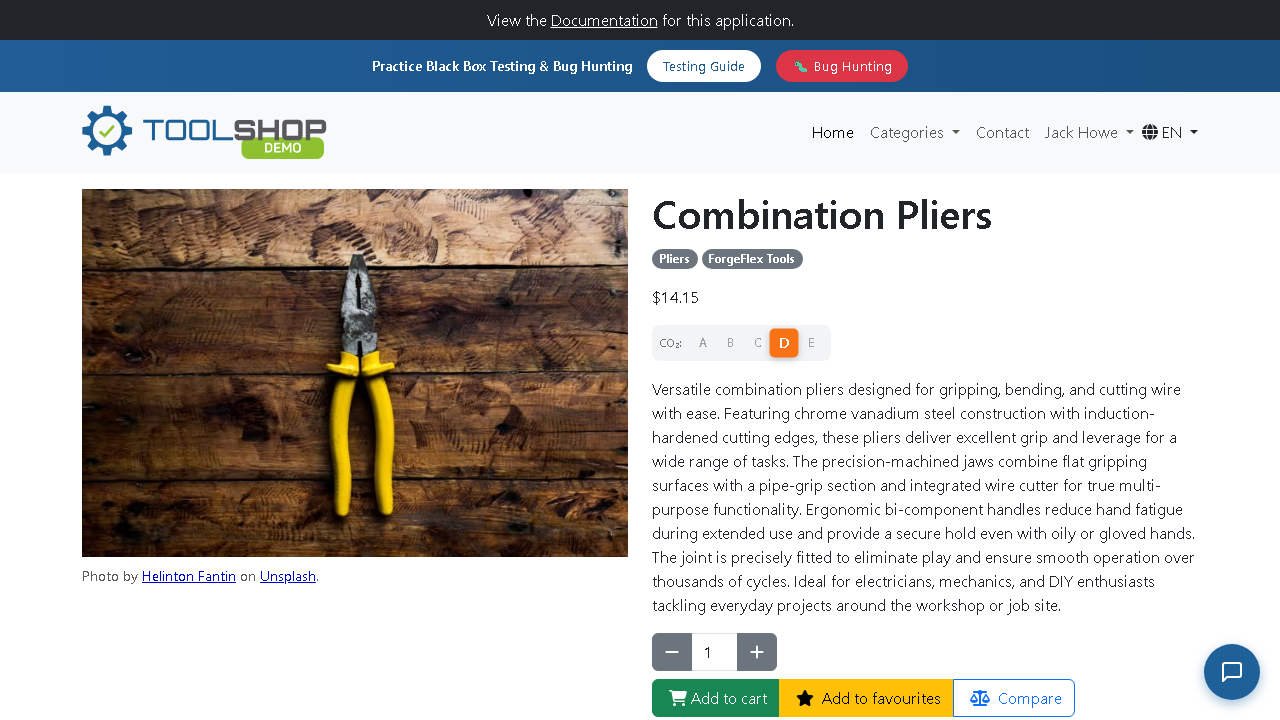
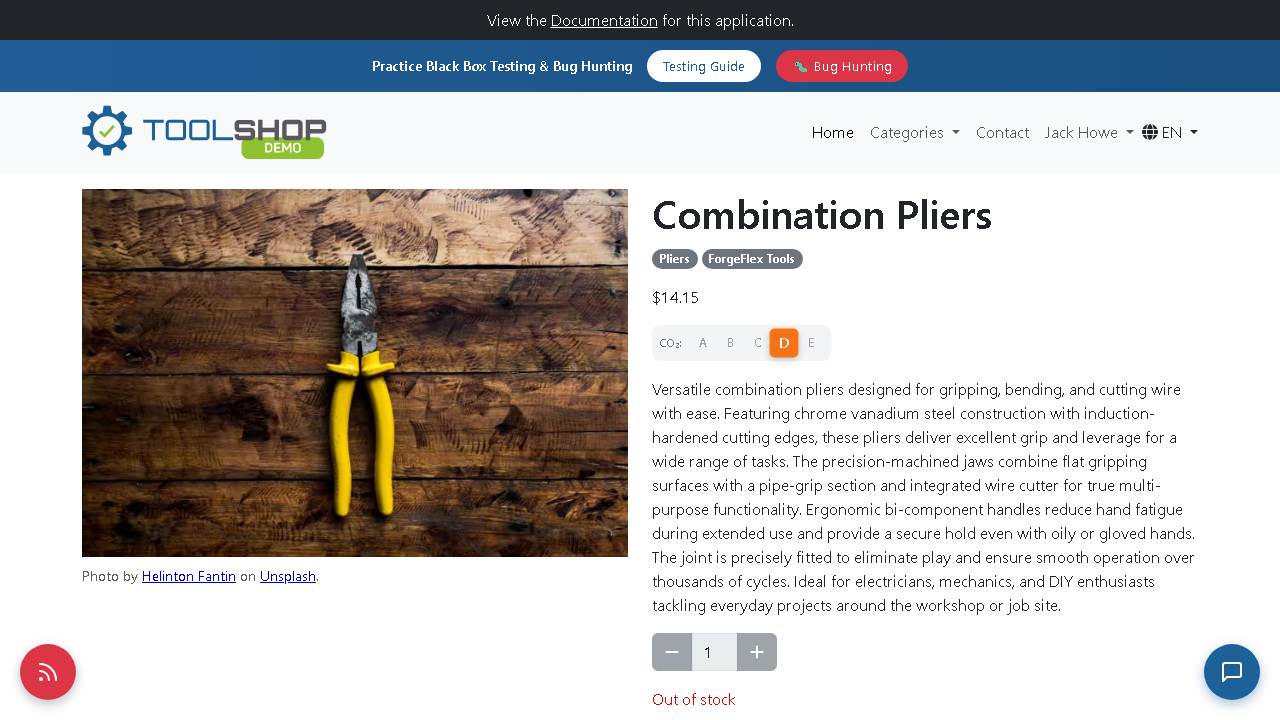
Fixes issue-2 for ci enviorment

Changed region(s): [[0.5, 0.8556, 0.7812, 1.0], [0.0, 0.8861, 0.0625, 0.9778]]

diff --git a/tests/setupFiles/auth-setup.spec.js b/tests/setupFiles/auth-setup.spec.js
@@ -3,49 +3,45 @@
 import {test as setup} from '@playwright/test'
 import { request } from 'https'
 
-//basic ui login that always get failed in ci due to cloudflare bot protection
-/*
-setup("Authenticate as a customer 2 - Jack Howe", async ({page})=>{
-    const email = process.env.testEmail
-    const password = process.env.testPassword
-    const customer02AuthFile = ".auth/customer02.json"
-
+if(!process.env.CI){
+    //basic ui login that always get failed in ci due to cloudflare bot protection
+    setup("Authenticate as a customer 2 - Jack Howe", async ({page})=>{
+        const customer02AuthFile = ".auth/customer02.json"
     
-    await page.goto("https://practicesoftwaretesting.com/auth/login")
-    await page.locator('[data-test="email"]').fill(email)
-    await page.locator('[data-test="password"]').fill(password)
-    await page.locator('[data-test="login-submit"]').click()
-    await page.waitForURL('account')
-    await page.context().storageState({path:customer02AuthFile})
-})
-*/
-
-//so i am using api to login
-setup("Authenticate as a customer 2 - Jack Howe", async ({request, page})=>{
-    const email = process.env.testEmail
-    const password = process.env.testPassword
-    const customer02AuthFile = ".auth/customer02.json"
-
-    const response = await request.post("https://api.practicesoftwaretesting.com/users/login",{
-        data:{
-            email:email,
-            password:password
-        },
+        await page.goto("https://practicesoftwaretesting.com/auth/login")
+        await page.locator('[data-test="email"]').fill(process.env.testEmail ?? '')
+        await page.locator('[data-test="password"]').fill(process.env.testPassword ?? '')
+        await page.locator('[data-test="login-submit"]').click()
+        await page.waitForURL('**/account')
+        await page.context().storageState({path:customer02AuthFile})
     })
-
-    if (!response.ok()) {
-        throw new Error(`Login failed with status ${response.status()}`)
-    }
-
-    const body = await response.json()
-    if (!body.access_token) {
-        throw new Error("Login response does not contain access_token")
-    }
-
-    await page.goto("https://practicesoftwaretesting.com/")
-    await page.evaluate((token) => {
-        localStorage.setItem("auth-token", token)
-    }, body.access_token)
-    //await page.waitForURL('**/account')
-    await page.context().storageState({path:customer02AuthFile})
-})
+}else{
+    //so i am using api to login
+    setup("Authenticate as a customer 2 - Jack Howe", async ({request, page})=>{
+        const email = process.env.testEmail
+        const password = process.env.testPassword
+        const customer02AuthFile = ".auth/customer02.json"
+    
+        const response = await request.post("https://api.practicesoftwaretesting.com/users/login",{
+            data:{
+                email:email,
+                password:password
+            },
+        })
+    
+        if (!response.ok()) {
+            throw new Error(`Login failed with status ${response.status()}`)
+        }
+    
+        const body = await response.json()
+        if (!body.access_token) {
+            throw new Error("Login response does not contain access_token")
+        }
+    
+        await page.goto("https://practicesoftwaretesting.com/")
+        await page.evaluate((token) => {
+            localStorage.setItem("auth-token", token)
+        }, body.access_token)
+        await page.context().storageState({path:customer02AuthFile})
+    })
+}

diff --git a/tests/basicPractice/practiceSoftwaretesting.spec.js b/tests/basicPractice/practiceSoftwaretesting.spec.js
@@ -1,22 +1,24 @@
 import { test, expect } from '@playwright/test';
 
-test.describe("Sign In Test",{tag:"@signin"},()=>{
-  test('Verify valid sign in of Jane Doe', async ({ page }) => {
-    await page.goto('https://practicesoftwaretesting.com/');
-    await page.locator('[data-test="nav-sign-in"]').click();
-    await page.locator('[data-test="email"]').fill('customer@practicesoftwaretesting.com');
-    await page.locator('[data-test="password"]').fill('welcome01');
-    await page.locator('[data-test="login-submit"]').click();
-    await expect(page.locator('[data-test="nav-menu"]')).toContainText('Jane Doe');
-    await expect(page.locator('[data-test="page-title"]')).toContainText('My account');
-  });
-})
+if(!process.env.CI){
+  test.describe("Sign In Test",{tag:"@signin"},()=>{
+    test('Verify valid sign in of Jane Doe', async ({ page }) => {
+      await page.goto('https://practicesoftwaretesting.com/');
+      await page.locator('[data-test="nav-sign-in"]').click();
+      await page.locator('[data-test="email"]').fill('customer@practicesoftwaretesting.com');
+      await page.locator('[data-test="password"]').fill('welcome01');
+      await page.locator('[data-test="login-submit"]').click();
+      await expect(page.locator('[data-test="nav-menu"]')).toContainText('Jane Doe');
+      await expect(page.locator('[data-test="page-title"]')).toContainText('My account');
+    });
+  })
+}
 
 test.describe("Contact test",{tag:"@contact"},()=>{
   test("Verify contact page is accessible",async ({page})=>{
     await page.goto('https://practicesoftwaretesting.com/')
     await page.getByRole('link',{'name':'Contact'}).click();
-    await expect(page.getByRole('heading')).toContainText('Contact');
+    await expect(page).toHaveURL(/contact/);
   })
 })
 

diff --git a/tests/basicPractice/practiceAssertion.spec.js b/tests/basicPractice/practiceAssertion.spec.js
@@ -12,7 +12,11 @@ test.describe("Basic Functionality Testing with no auth",()=>{
 
     test("Verify visual test for no auth",async ({page})=>{
         await expect(page.getByTitle("Practice Software Testing - Toolshop")).toBeVisible()
-        await expect(page).toHaveScreenshot("no-auth-ss.png")
+        if(!process.env.CI){
+            await expect(page).toHaveScreenshot("no-auth-ss.png")
+        }else{
+            await expect(page).toHaveScreenshot("no-auth-ss-cicd.png")
+        }
     })
 
     test("Verify Title", async ({page})=>{
@@ -44,6 +48,10 @@ test.describe("Basic functionality testing with auth",()=>{
 
     test("Visual test for auth",async ({page})=>{
         await expect(page.locator('[data-test="nav-menu"]')).toBeVisible()
-        await expect(page).toHaveScreenshot("auth-ss.png")
+        if(!process.env.CI){
+            await expect(page).toHaveScreenshot("auth-ss.png")
+        }else{
+            await expect(page).toHaveScreenshot("auth-ss-cicd.png")
+        }
     })
 })

diff --git a/tests/challenge/challenge.spec.js b/tests/challenge/challenge.spec.js
@@ -31,7 +31,12 @@ test.describe("Challenge Accepted",()=>{
         await page.locator('[data-test="nav-home"]').click();
         await page.getByAltText("Combination Pliers").click();
         await expect(page.locator('[data-test="product-name"]')).toBeVisible();
-        await expect(page).toHaveScreenshot("Combination-Pliers.png")
+        await page.getByRole('button',{name:'Add to cart'}).waitFor({state:'visible'});
+        if(process.env.CI){
+            await expect(page).toHaveScreenshot("Combination-Pliers-cicd.png")
+        }else{
+            await expect(page).toHaveScreenshot("Combination-Pliers.png")
+        }
     })
 
     test("Challenge 3 - Api test product/{id} endpoint",async ({request})=>{
